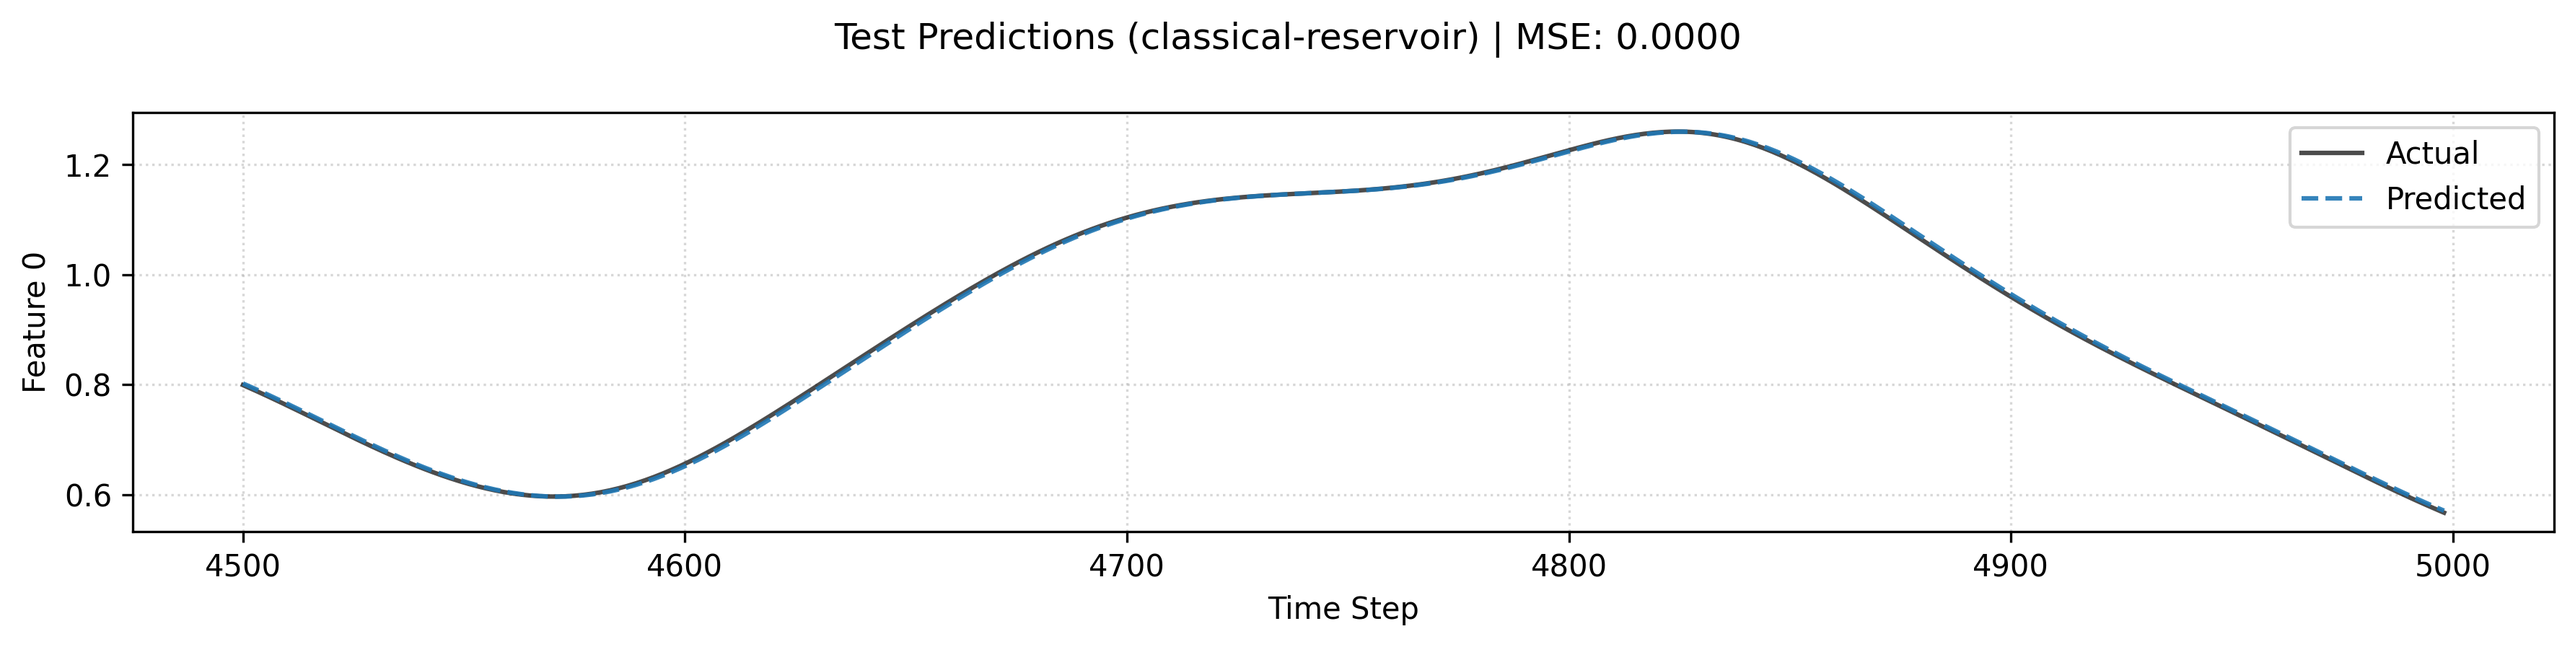
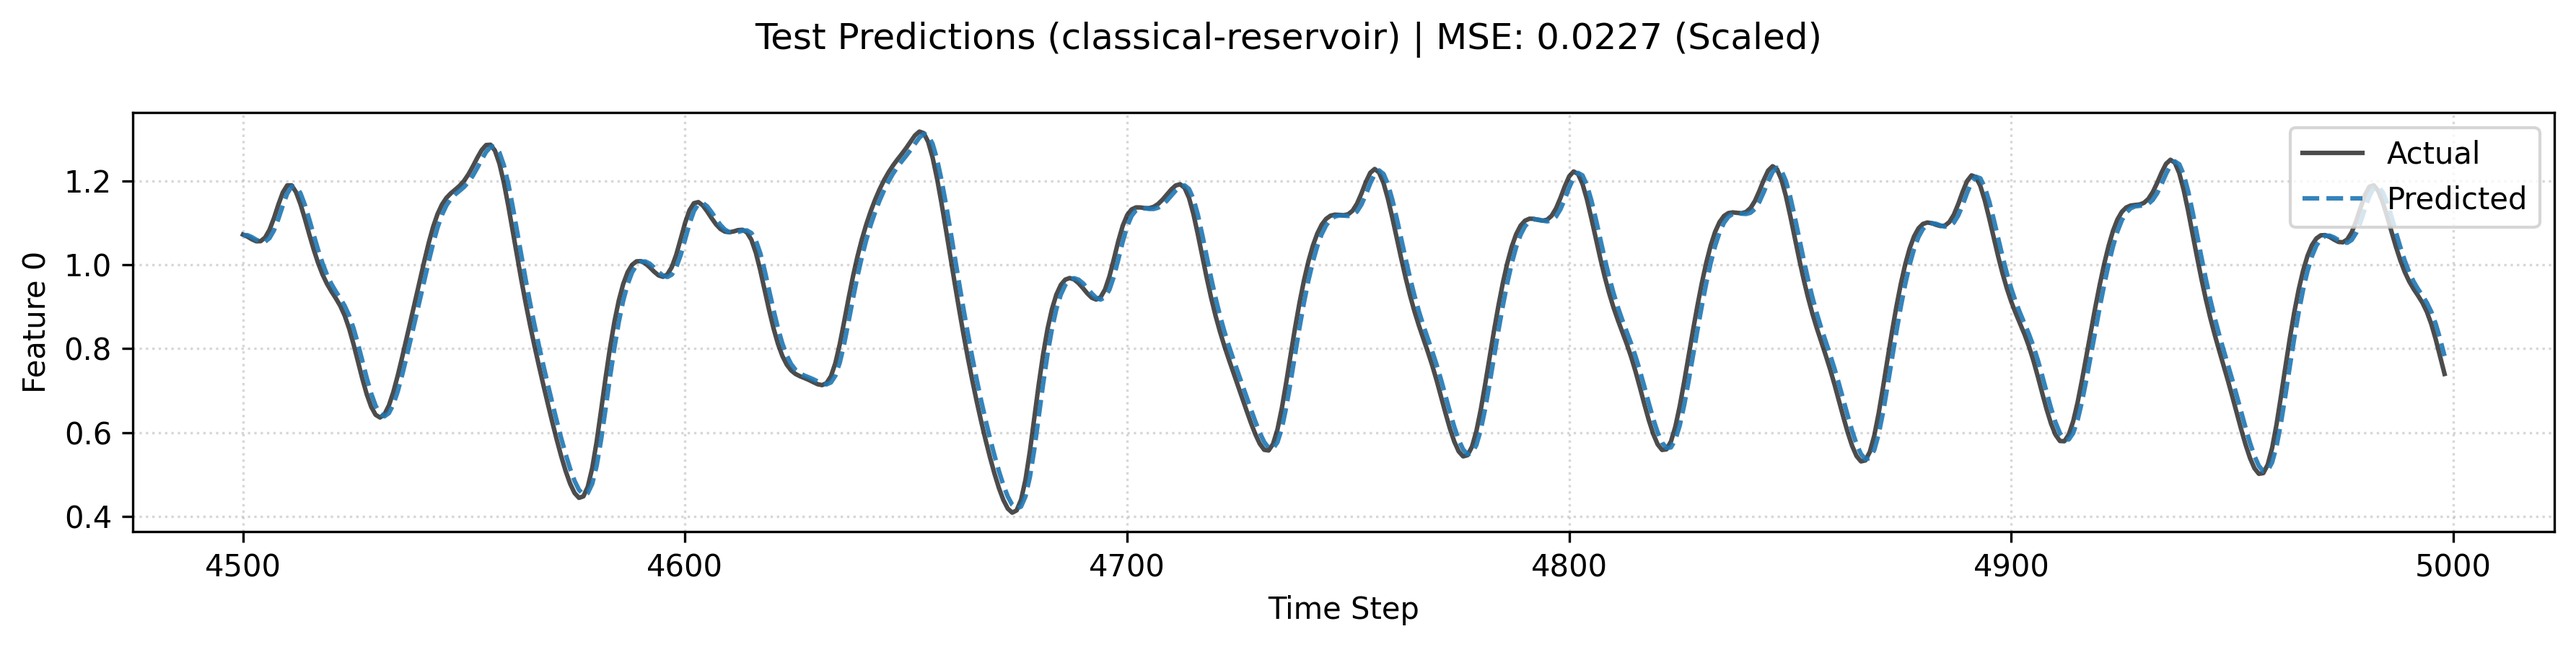
fixing

diff --git a/src/reservoir/utils/reporting.py b/src/reservoir/utils/reporting.py
@@ -11,6 +11,43 @@ def _safe_get(d: Dict[str, Any], key: str, default: Any = None) -> Any:
     return d.get(key, default) if isinstance(d, dict) else default
 
 
+def calculate_chaos_metrics(y_true: Any, y_pred: Any) -> Tuple[float, float]:
+    """
+    Mackey-Glassなどのカオス予測専用の評価指標
+    """
+    # 形状を合わせる
+    y_true_np = np.asarray(y_true).flatten()
+    y_pred_np = np.asarray(y_pred).flatten()
+    
+    # 基本統計量
+    mse = np.mean((y_true_np - y_pred_np) ** 2)
+    rmse = np.sqrt(mse)
+    std_true = np.std(y_true_np)
+    std_pred = np.std(y_pred_np)
+    
+    # 1. NDEI (業界標準)
+    # これが 0.1 を切ることを目指す
+    ndei = rmse / std_true if std_true > 1e-9 else float('inf')
+    
+    # 2. Variance Ratio (分散比)
+    # これが 1.0 に近づくことを目指す
+    var_ratio = std_pred / std_true if std_true > 1e-9 else 0.0
+    
+    # 3. Correlation (相関係数)
+    if std_true > 1e-9 and std_pred > 1e-9:
+        corr = np.corrcoef(y_true_np, y_pred_np)[0, 1]
+    else:
+        corr = 0.0
+
+    print(f"=== Chaos Prediction Metrics ===")
+    print(f"MSE       : {mse:.5f}")
+    print(f"NDEI      : {ndei:.5f} (Target < 0.1)")
+    print(f"Var Ratio : {var_ratio:.5f} (Target ~ 1.0)")
+    print(f"Corr      : {corr:.5f} (Target > 0.95)")
+    
+    return ndei, var_ratio
+
+
 def print_ridge_search_results(train_res: Dict[str, Any], metric: str) -> None:
     if not isinstance(train_res, dict):
         return
@@ -74,6 +111,8 @@ def plot_classification_report(
     # 追加: 計算済みの予測値を受け取るオプション
     precalc_preds: Optional[Dict[str, Any]] = None,
     preprocessors: Optional[list[Any]] = None,
+    selected_lambda: Optional[float] = None,
+    lambda_norm: Optional[float] = None,
 ) -> None:
     try:
         from reservoir.utils.plotting import plot_classification_results
@@ -291,6 +330,7 @@ def generate_report(
         filename_parts = _infer_filename_parts(topo_meta, training_obj, model_type_str)
         prediction_filename = f"outputs/{dataset_name}/{'_'.join(filename_parts)}_prediction.png"
         test_mse = _safe_get(results, "test", {}).get("mse")
+        scaler = results.get("scaler")
 
         # Regressionの方も同様に最適化（必要な場合）
         # 現状は簡易的に予測値を渡すだけにしていますが、
@@ -306,9 +346,30 @@ def generate_report(
              filename=prediction_filename,
              model_type_str=model_type_str,
              mse=test_mse,
-             precalc_test_pred=test_pred_cached, # 必要なら受け皿を作る
+             precalc_test_pred=test_pred_cached, 
              preprocessors=preprocessors,
-        )
+             scaler=scaler,
+         )
+         
+        # Closed-Loop Plots
+        cl_pred = precalc_preds.get("closed_loop_pred")
+        cl_truth = precalc_preds.get("closed_loop_truth")
+        if cl_pred is not None:
+            cl_filename = f"outputs/{dataset_name}/{'_'.join(filename_parts)}_closed_loop.png"
+            # We reuse plot_regression_report but pass None for runner/readout as we have precalc preds
+            plot_regression_report(
+                runner=runner,
+                readout=readout,
+                train_y=None, # No training context needed for this plot
+                test_X=None,  # Not used if precalc_test_pred is provided
+                test_y=cl_truth,
+                filename=cl_filename,
+                model_type_str=f"{model_type_str} (Closed-Loop)",
+                mse=None,
+                precalc_test_pred=cl_pred,
+                preprocessors=preprocessors,
+                scaler=scaler
+            )
 
 
 def plot_regression_report(
@@ -323,6 +384,7 @@ def plot_regression_report(
     mse: Optional[float] = None,
     precalc_test_pred: Optional[Any] = None, # 追加
     preprocessors: Optional[list[Any]] = None,
+    scaler: Optional[Any] = None,
 ) -> None:
     try:
         from reservoir.utils.plotting import plot_timeseries_comparison
@@ -366,9 +428,40 @@ def plot_regression_report(
              else:
                  test_y = test_y[diff:]
 
+    # Prepare for plotting (Inverse Transform to Raw Domain)
+    # Ensure (N, F) shape for scaler
+    def to_2d(arr):
+        if arr.ndim == 3: return arr.reshape(-1, arr.shape[-1])
+        if arr.ndim == 1: return arr.reshape(-1, 1)
+        return arr
+
+    test_pred_plot = to_2d(test_pred)
+    test_y_plot = to_2d(test_y) if test_y is not None else None
+
+    if scaler is not None:
+        try:
+            test_pred_plot = scaler.inverse_transform(test_pred_plot)
+            if test_y_plot is not None:
+                test_y_plot = scaler.inverse_transform(test_y_plot)
+        except Exception as e:
+            print(f"  [Report] Scaler inverse transform failed: {e}")
+    elif preprocessors:
+        for p in reversed(preprocessors):
+            if hasattr(p, "inverse_transform"):
+                try:
+                    test_pred_plot = p.inverse_transform(test_pred_plot)
+                    if test_y_plot is not None:
+                        test_y_plot = p.inverse_transform(test_y_plot)
+                except Exception as e:
+                    print(f"  [Report] Inverse transform failed for {type(p).__name__}: {e}")
+
+    # Update variables for plotting
+    test_pred = test_pred_plot
+    test_y = test_y_plot
+
     title_str = f"Test Predictions ({model_type_str})"
     if mse is not None:
-        title_str += f" | MSE: {mse:.4f}"
+        title_str += f" | MSE: {mse:.4f} (Scaled)"
 
     plot_timeseries_comparison(
         targets=test_y,

diff --git a/src/reservoir/data/loaders.py b/src/reservoir/data/loaders.py
@@ -103,17 +103,14 @@ def load_mackey_glass(config: MackeyGlassConfig) -> Tuple[jnp.ndarray, jnp.ndarr
     # y is X shifted by 1. full = [X[0], X[1]... X[T-1], y[T-1]]
     seq = np.append(np.asarray(X_gen).flatten(), np.asarray(y_gen)[-1])
     
-    # 3. Force Downsampling (User Request)
-    # "data = data[::10]"
-    seq = seq[::10]
-    
-    # 4. Normalize (as per user snippet)
-    # "data = (data - np.mean(data)) / np.std(data)"
-    mean_val = np.mean(seq)
-    std_val = np.std(seq)
-    if std_val > 1e-9:
-        seq = (seq - mean_val) / std_val
-        
+    # 3. Downsampling (Parameterized)
+    step = getattr(config, "downsample", 1)
+    if step > 1:
+        seq = seq[::step]
+        print(f"    [Dataset] Applied downsampling: step={step}")
+
+    # 4. Normalize (Disabled: Pipeline handles preprocessing)
+
     # 5. Naive MSE Baseline
     # "Naive MSE = mean((y[1:] - y[:-1])**2)"
     naive_loss = np.mean((seq[1:] - seq[:-1]) ** 2)

diff --git a/src/reservoir/data/presets.py b/src/reservoir/data/presets.py
@@ -78,10 +78,11 @@ DATASET_DEFINITIONS: Dict[Dataset, DatasetPreset] = {
             dt=1,
             noise_level=0.0,
             seed=0,
-            tau=30,
+            tau=17,
             beta=0.2,
             gamma=0.1,
             n=10,
+            downsample=1,
         ),
         use_dimensions=None
 

diff --git a/src/reservoir/models/presets.py b/src/reservoir/models/presets.py
@@ -80,7 +80,7 @@ TIME_CLASSICAL_RESERVOIR_PRESET = PipelineConfig(
         poly_degree=1,
     ),
     projection=ProjectionConfig(
-        n_units=3,
+        n_units=1,
         input_scale=0.1,
         input_connectivity=1.0,
         bias_scale=0.0,

diff --git a/src/reservoir/pipelines/config.py b/src/reservoir/pipelines/config.py
@@ -20,6 +20,7 @@ class FrontendContext:
     projected_shape: Optional[tuple[int, ...]]
     input_shape_for_meta: tuple[int, ...]
     input_dim_for_factory: int
+    scaler: Optional[Any]
 
 
 @dataclass(frozen=True)

diff --git a/src/reservoir/data/config.py b/src/reservoir/data/config.py
@@ -38,6 +38,7 @@ class MackeyGlassConfig(BaseDatasetConfig):
     gamma: float
     n: int
     warmup_steps: int
+    downsample: int
 
 @dataclass(frozen=True)
 class MNISTConfig(BaseDatasetConfig):
